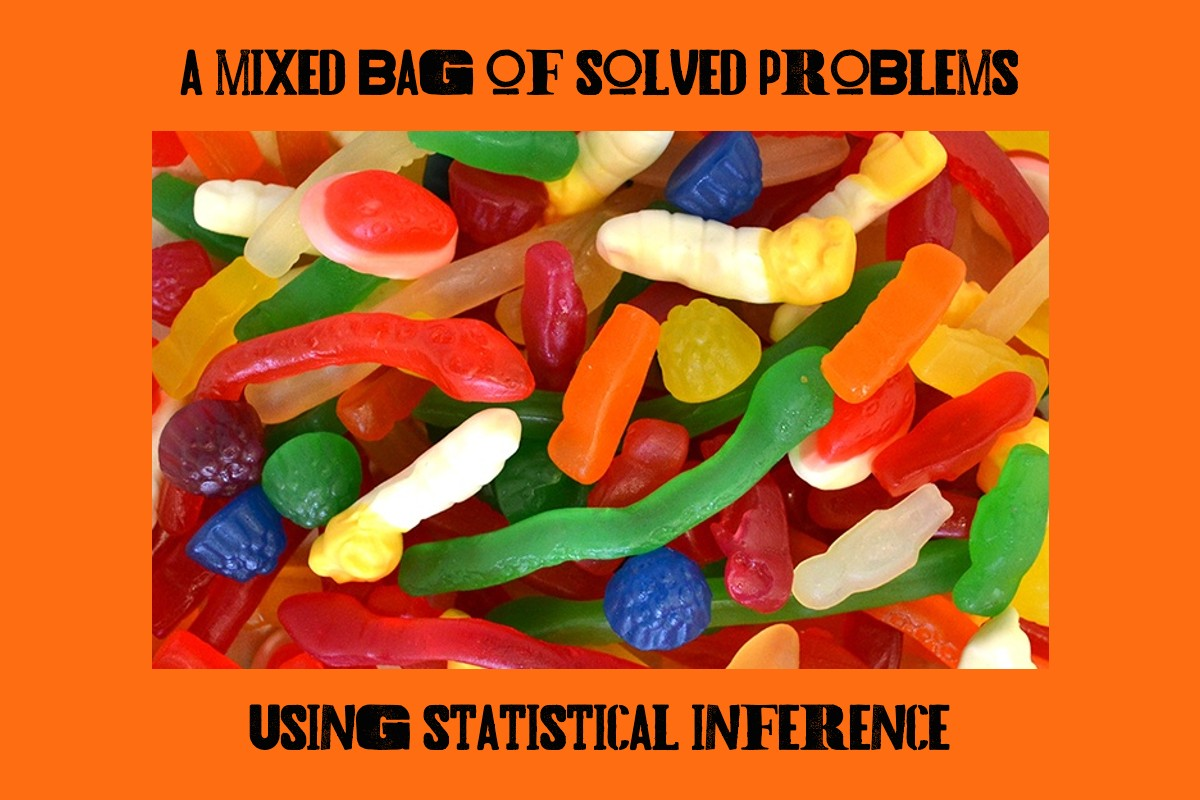
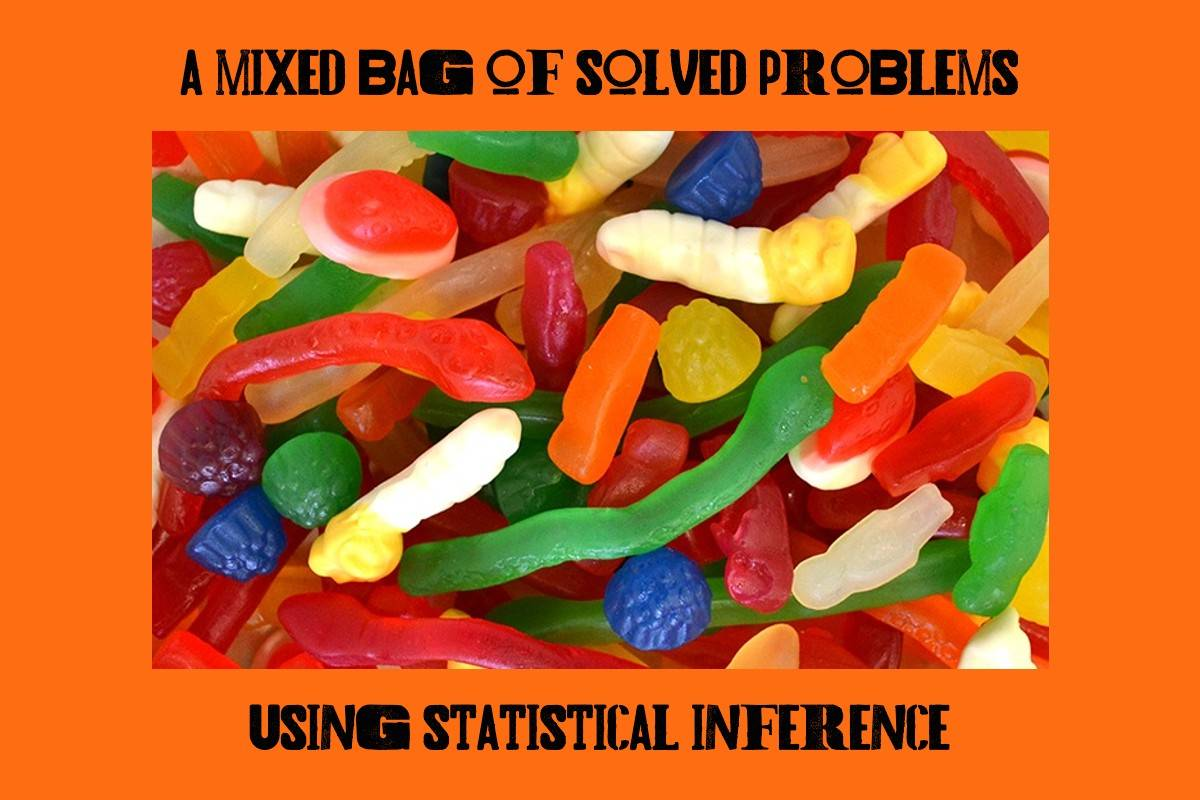
Changed image for Statistical Inference Post.

diff --git a/_site/posts/2021-12-31-mixed-bag-of-statistical-inference/index.html b/_site/posts/2021-12-31-mixed-bag-of-statistical-inference/index.html
@@ -104,14 +104,20 @@ code span.wa { color: #5e5e5e; font-style: italic; } /* Warning */
 <meta property="og:type" content="article"/>
 <meta property="og:description" content="Solved problems with R using statistical inference."/>
 <meta property="og:url" content="https://mike-distill-blog.netlify.app/posts/2021-12-31-mixed-bag-of-statistical-inference/"/>
+<meta property="og:image" content="https://mike-distill-blog.netlify.app/posts/2021-12-31-mixed-bag-of-statistical-inference/Blog_Test.png"/>
+<meta property="og:image:width" content="1200"/>
+<meta property="og:image:height" content="800"/>
 <meta property="og:locale" content="en_US"/>
 <meta property="og:site_name" content="Blog by Mike"/>
 
 <!--  https://dev.twitter.com/cards/types/summary -->
-<meta property="twitter:card" content="summary"/>
+<meta property="twitter:card" content="summary_large_image"/>
 <meta property="twitter:title" content="Blog by Mike: Mixed Bag of Statistical Inference"/>
 <meta property="twitter:description" content="Solved problems with R using statistical inference."/>
 <meta property="twitter:url" content="https://mike-distill-blog.netlify.app/posts/2021-12-31-mixed-bag-of-statistical-inference/"/>
+<meta property="twitter:image" content="https://mike-distill-blog.netlify.app/posts/2021-12-31-mixed-bag-of-statistical-inference/Blog_Test.png"/>
+<meta property="twitter:image:width" content="1200"/>
+<meta property="twitter:image:height" content="800"/>
 <meta property="twitter:site" content="@mikejhudson"/>
 <meta property="twitter:creator" content="@mikejhudson"/>
 
@@ -130,7 +136,7 @@ code span.wa { color: #5e5e5e; font-style: italic; } /* Warning */
 <!--/radix_placeholder_rmarkdown_metadata-->
   
   <script type="text/json" id="radix-resource-manifest">
-  {"type":"character","attributes":{},"value":["mixed-bag-of-statistical-inference_files/anchor-4.2.2/anchor.min.js","mixed-bag-of-statistical-inference_files/bowser-1.9.3/bowser.min.js","mixed-bag-of-statistical-inference_files/distill-2.2.21/template.v2.js","mixed-bag-of-statistical-inference_files/header-attrs-2.11.3/header-attrs.js","mixed-bag-of-statistical-inference_files/header-attrs-2.16/header-attrs.js","mixed-bag-of-statistical-inference_files/jquery-3.6.0/jquery-3.6.0.js","mixed-bag-of-statistical-inference_files/jquery-3.6.0/jquery-3.6.0.min.js","mixed-bag-of-statistical-inference_files/jquery-3.6.0/jquery-3.6.0.min.map","mixed-bag-of-statistical-inference_files/popper-2.6.0/popper.min.js","mixed-bag-of-statistical-inference_files/tippy-6.2.7/tippy-bundle.umd.min.js","mixed-bag-of-statistical-inference_files/tippy-6.2.7/tippy-light-border.css","mixed-bag-of-statistical-inference_files/tippy-6.2.7/tippy.css","mixed-bag-of-statistical-inference_files/tippy-6.2.7/tippy.umd.min.js","mixed-bag-of-statistical-inference_files/webcomponents-2.0.0/webcomponents.js","MixedBag_stat_infer_1200x800.jpg"]}
+  {"type":"character","attributes":{},"value":["Blog_Test.png","mixed-bag-of-statistical-inference_files/anchor-4.2.2/anchor.min.js","mixed-bag-of-statistical-inference_files/bowser-1.9.3/bowser.min.js","mixed-bag-of-statistical-inference_files/distill-2.2.21/template.v2.js","mixed-bag-of-statistical-inference_files/header-attrs-2.11.3/header-attrs.js","mixed-bag-of-statistical-inference_files/header-attrs-2.16/header-attrs.js","mixed-bag-of-statistical-inference_files/jquery-3.6.0/jquery-3.6.0.js","mixed-bag-of-statistical-inference_files/jquery-3.6.0/jquery-3.6.0.min.js","mixed-bag-of-statistical-inference_files/jquery-3.6.0/jquery-3.6.0.min.map","mixed-bag-of-statistical-inference_files/popper-2.6.0/popper.min.js","mixed-bag-of-statistical-inference_files/tippy-6.2.7/tippy-bundle.umd.min.js","mixed-bag-of-statistical-inference_files/tippy-6.2.7/tippy-light-border.css","mixed-bag-of-statistical-inference_files/tippy-6.2.7/tippy.css","mixed-bag-of-statistical-inference_files/tippy-6.2.7/tippy.umd.min.js","mixed-bag-of-statistical-inference_files/webcomponents-2.0.0/webcomponents.js","MixedBag_stat_infer_1200x800.jpg","titanic_part_1.png"]}
   </script>
   <!--radix_placeholder_navigation_in_header-->
 <meta name="distill:offset" content="../.."/>
@@ -2499,7 +2505,7 @@ d-appendix d-footnote-list a.footnote-backlink {
 
 <div class="d-article">
 <div class="layout-chunk" data-layout="l-body">
-<p><img src="MixedBag_stat_infer_1200x800.jpg" /><!-- --></p>
+<p><img src="Blog_Test.png" width="600" /></p>
 </div>
 <h3 id="relevance-to-data-analytics-skills">Relevance to Data Analytics Skills</h3>
 <ul>

diff --git a/_posts/2021-12-31-mixed-bag-of-statistical-inference/mixed-bag-of-statistical-inference.html b/_posts/2021-12-31-mixed-bag-of-statistical-inference/mixed-bag-of-statistical-inference.html
@@ -118,7 +118,7 @@ code span.wa { color: #5e5e5e; font-style: italic; } /* Warning */
   <!--/radix_placeholder_rmarkdown_metadata-->
   
   <script type="text/json" id="radix-resource-manifest">
-  {"type":"character","attributes":{},"value":["mixed-bag-of-statistical-inference_files/anchor-4.2.2/anchor.min.js","mixed-bag-of-statistical-inference_files/bowser-1.9.3/bowser.min.js","mixed-bag-of-statistical-inference_files/distill-2.2.21/template.v2.js","mixed-bag-of-statistical-inference_files/header-attrs-2.11.3/header-attrs.js","mixed-bag-of-statistical-inference_files/header-attrs-2.16/header-attrs.js","mixed-bag-of-statistical-inference_files/jquery-3.6.0/jquery-3.6.0.js","mixed-bag-of-statistical-inference_files/jquery-3.6.0/jquery-3.6.0.min.js","mixed-bag-of-statistical-inference_files/jquery-3.6.0/jquery-3.6.0.min.map","mixed-bag-of-statistical-inference_files/popper-2.6.0/popper.min.js","mixed-bag-of-statistical-inference_files/tippy-6.2.7/tippy-bundle.umd.min.js","mixed-bag-of-statistical-inference_files/tippy-6.2.7/tippy-light-border.css","mixed-bag-of-statistical-inference_files/tippy-6.2.7/tippy.css","mixed-bag-of-statistical-inference_files/tippy-6.2.7/tippy.umd.min.js","mixed-bag-of-statistical-inference_files/webcomponents-2.0.0/webcomponents.js","MixedBag_stat_infer_1200x800.jpg"]}
+  {"type":"character","attributes":{},"value":["Blog_Test.png","mixed-bag-of-statistical-inference_files/anchor-4.2.2/anchor.min.js","mixed-bag-of-statistical-inference_files/bowser-1.9.3/bowser.min.js","mixed-bag-of-statistical-inference_files/distill-2.2.21/template.v2.js","mixed-bag-of-statistical-inference_files/header-attrs-2.11.3/header-attrs.js","mixed-bag-of-statistical-inference_files/header-attrs-2.16/header-attrs.js","mixed-bag-of-statistical-inference_files/jquery-3.6.0/jquery-3.6.0.js","mixed-bag-of-statistical-inference_files/jquery-3.6.0/jquery-3.6.0.min.js","mixed-bag-of-statistical-inference_files/jquery-3.6.0/jquery-3.6.0.min.map","mixed-bag-of-statistical-inference_files/popper-2.6.0/popper.min.js","mixed-bag-of-statistical-inference_files/tippy-6.2.7/tippy-bundle.umd.min.js","mixed-bag-of-statistical-inference_files/tippy-6.2.7/tippy-light-border.css","mixed-bag-of-statistical-inference_files/tippy-6.2.7/tippy.css","mixed-bag-of-statistical-inference_files/tippy-6.2.7/tippy.umd.min.js","mixed-bag-of-statistical-inference_files/webcomponents-2.0.0/webcomponents.js","MixedBag_stat_infer_1200x800.jpg","titanic_part_1.png"]}
   </script>
   <!--radix_placeholder_navigation_in_header-->
   <!--/radix_placeholder_navigation_in_header-->
@@ -1529,7 +1529,7 @@ code span.wa { color: #5e5e5e; font-style: italic; } /* Warning */
 
 <div class="d-article">
 <div class="layout-chunk" data-layout="l-body">
-<p><img src="MixedBag_stat_infer_1200x800.jpg" /><!-- --></p>
+<p><img src="Blog_Test.png" width="600" /></p>
 </div>
 <h3 id="relevance-to-data-analytics-skills">Relevance to Data Analytics Skills</h3>
 <ul>

diff --git a/_site/blog.html b/_site/blog.html
@@ -2582,7 +2582,9 @@ function init_posts_list() {
 <div class="dt-author">Mike Hudson</div>
 </div>
 </div>
-<div class="thumbnail"></div>
+<div class="thumbnail">
+<img src="posts/2021-12-31-mixed-bag-of-statistical-inference/Blog_Test.png"/>
+</div>
 <div class="description">
 <h2>Mixed Bag of Statistical Inference</h2>
 <div class="dt-tags">

diff --git a/_site/index_old.html b/_site/index_old.html
@@ -2582,7 +2582,9 @@ function init_posts_list() {
 <div class="dt-author">Mike Hudson</div>
 </div>
 </div>
-<div class="thumbnail"></div>
+<div class="thumbnail">
+<img src="posts/2021-12-31-mixed-bag-of-statistical-inference/Blog_Test.png"/>
+</div>
 <div class="description">
 <h2>Mixed Bag of Statistical Inference</h2>
 <div class="dt-tags">
